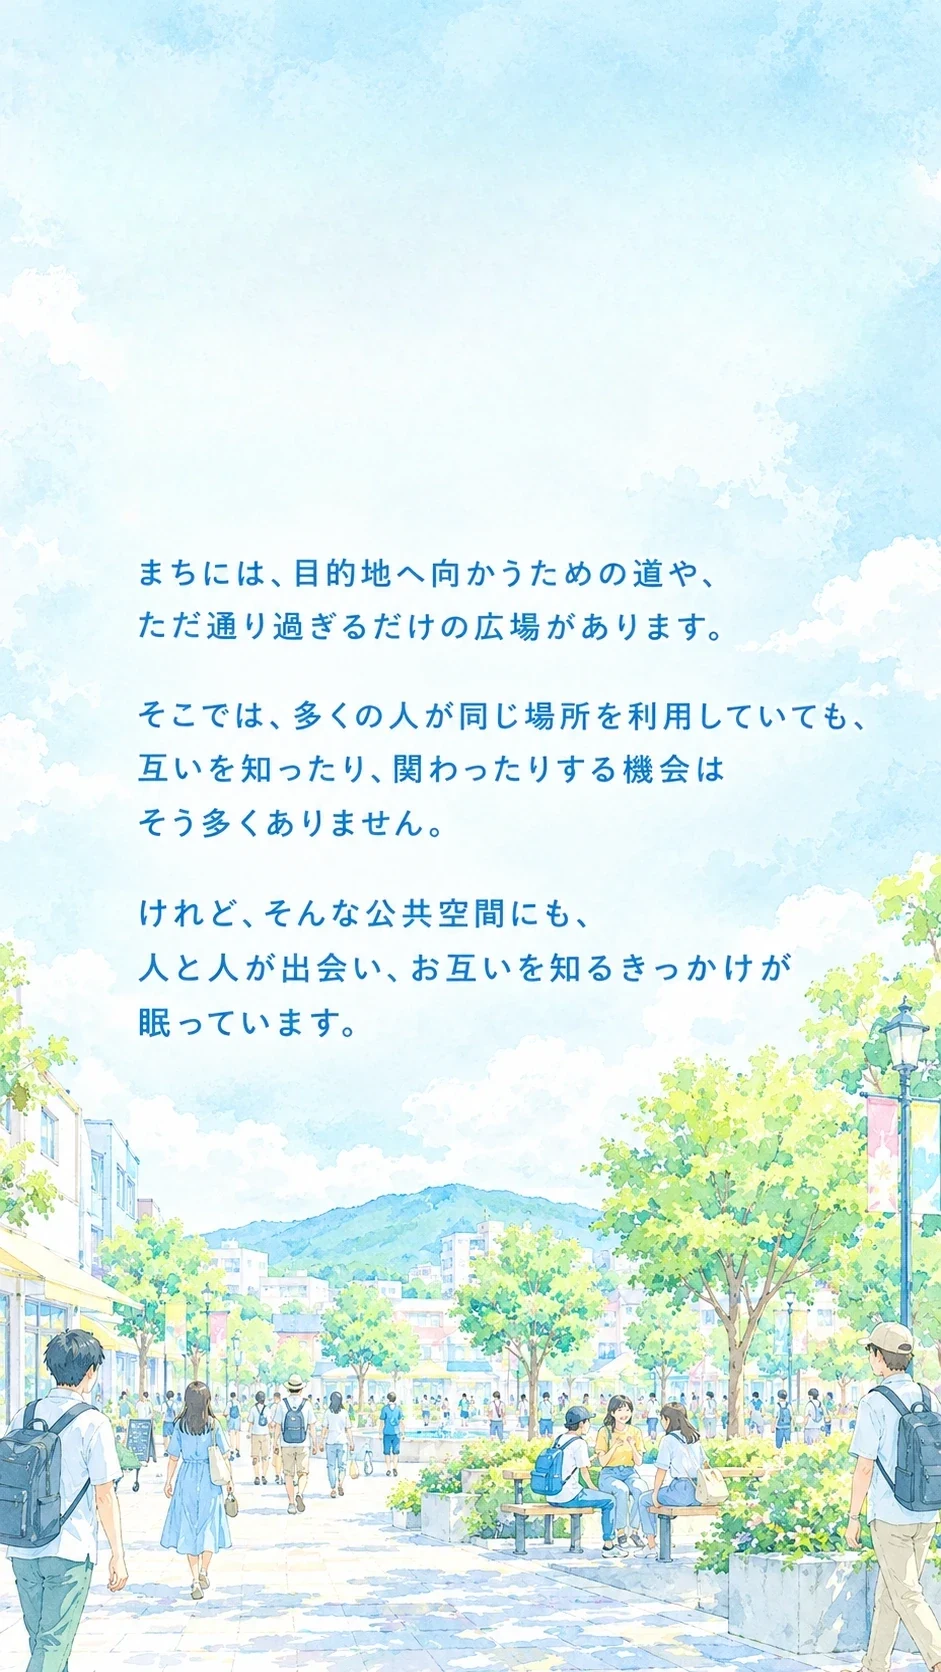
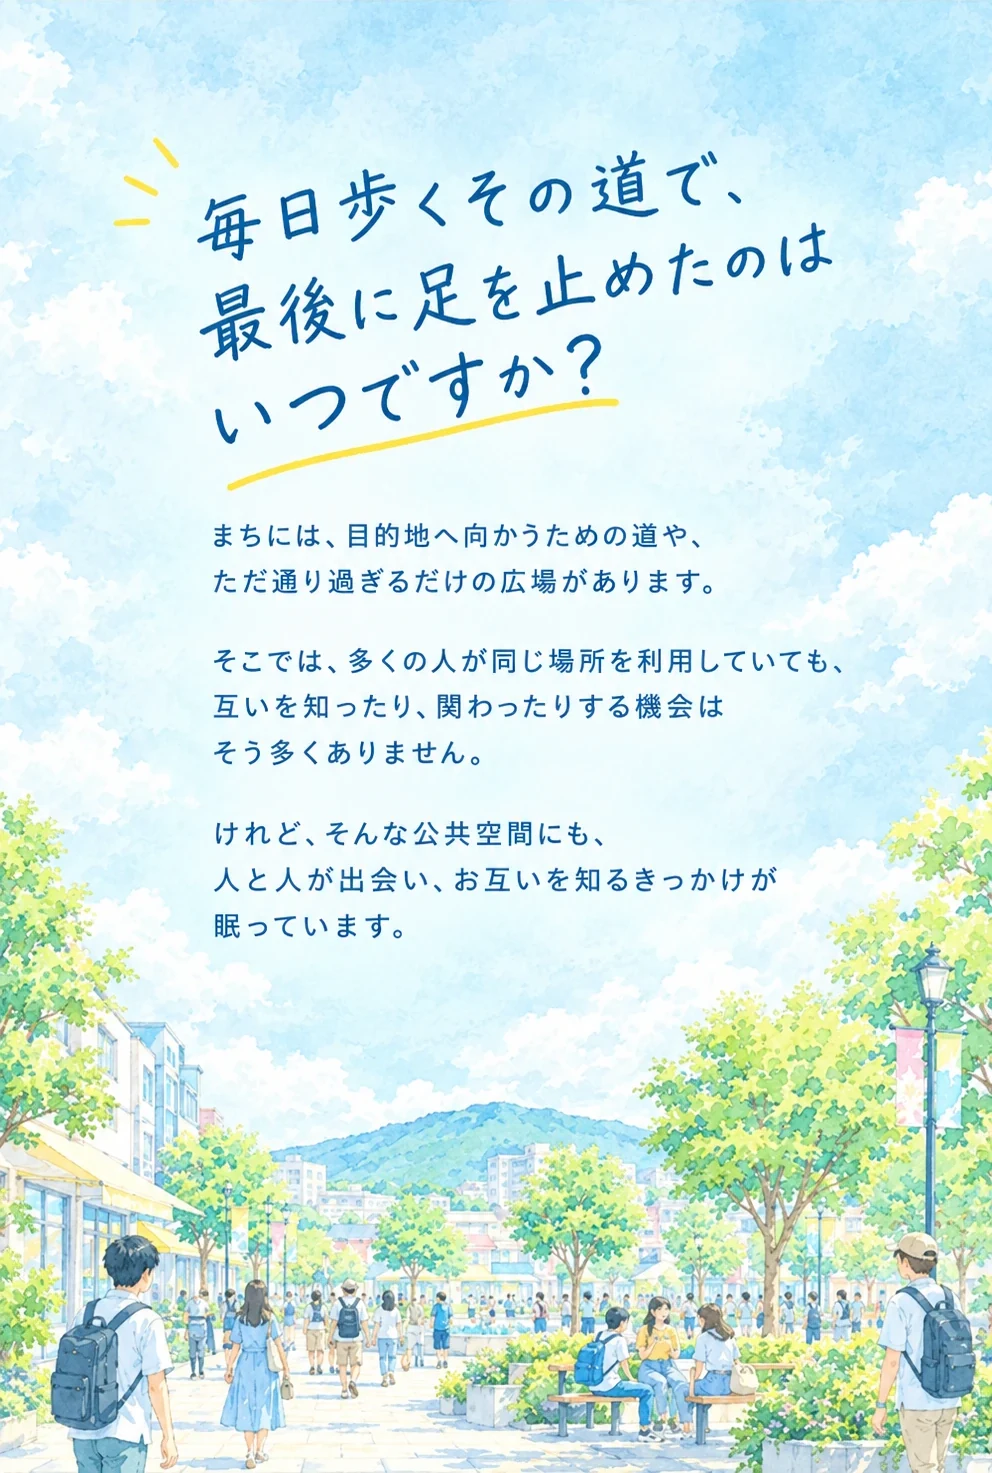
Use the finished panels as they are
The first panel now carries its own question, so the separate lockup that
was laid over it is gone and its file with it, and the third is the newer
file. The header band drawn into the first one is cropped off so it does not
double with the page's own header.

diff --git a/top-c/index.html b/top-c/index.html
@@ -385,17 +385,15 @@ footer{border-top:1px solid var(--line);margin-top:30px;padding:36px 0 56px;colo
 <section class="panels" id="story">
   <div class="stage">
     <div class="slide on">
-      <div class="p-wrap"><img class="p-bg" src="../assets/sp-panel-1.webp" width="941" height="1672"
-        alt="まちには、目的地へ向かうための道や、ただ通り過ぎるだけの広場があります。そこでは、多くの人が同じ場所を利用していても、互いを知ったり、関わったりする機会はそう多くありません。けれど、そんな公共空間にも、人と人が出会い、お互いを知るきっかけが眠っています。">
-        <img class="p-ttl" src="../assets/q-heading-sp.webp" width="585" height="297"
-          alt="毎日歩くその道で、最後に足を止めたのはいつですか？"></div>
+      <div class="p-wrap"><img class="p-bg" src="../assets/sp-panel-1.webp" width="992" height="1473"
+        alt="毎日歩くその道で、最後に足を止めたのはいつですか？ まちには、目的地へ向かうための道や、ただ通り過ぎるだけの広場があります。そこでは、多くの人が同じ場所を利用していても、互いを知ったり、関わったりする機会はそう多くありません。けれど、そんな公共空間にも、人と人が出会い、お互いを知るきっかけが眠っています。"></div>
     </div>
     <div class="slide">
       <div class="p-wrap"><img class="p-bg" src="../assets/sp-panel-2.webp" width="992" height="1475" loading="lazy"
         alt="MACHI PLAYは、公共空間に眠る、そんな人と人との新たな関わりの可能性を、遊びの力で切り拓いていく取り組みです。その中で大事にしているのは、一人ひとりの「好き」を大切にすること、そして、人と一緒に何かを楽しむことです。誰かと一緒に楽しみ、その人の好きなものや人柄を知る。そんな出会いを通して、その人が暮らすまちも少しずつ身近になっていきます。"></div>
     </div>
     <div class="slide">
-      <div class="p-wrap"><img class="p-bg" src="../assets/sp-panel-3.webp" width="941" height="1479" loading="lazy"
+      <div class="p-wrap"><img class="p-bg" src="../assets/sp-panel-3.webp" width="941" height="1506" loading="lazy"
         alt="いつもの道や広場に、思いがけない出会いや楽しみをつくる。そんな夢に向かって、「楽しい」と「好き」を大切にしながら、これからも活動を続けていきます。"></div>
     </div>
   </div>
